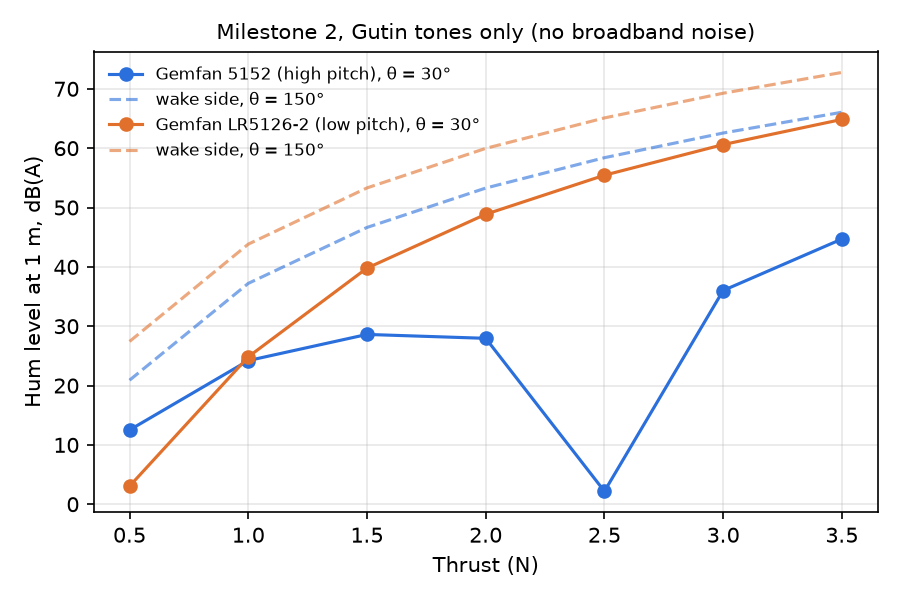
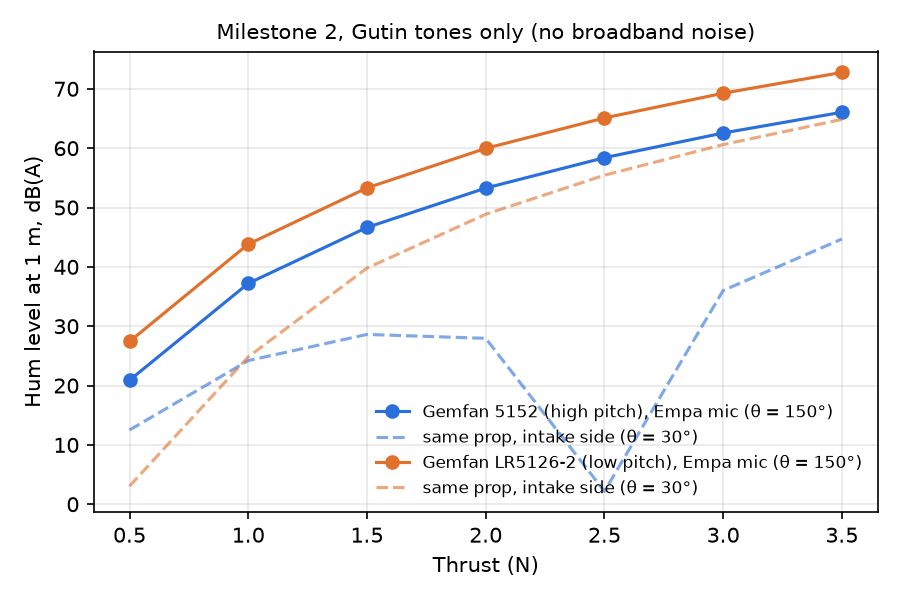
Use Empa's mic position: theta = 150 deg (slipstream side)
Empa's microphone is 60 deg below the rotor plane on the downwash side
(Meister et al. 2026, Sec. 3.2, Fig. 8), i.e. theta = 150 deg from the
thrust direction in Gutin's convention. Thrust and torque terms now add
instead of cancelling. Both former xfails pass without tuning: the 5152 is
quieter by 6.5-6.7 dB(A) (Empa ~5). Adds a slipstream-vs-intake test and
states the angle clearly in the PRD.

diff --git a/scripts/run_m2.py b/scripts/run_m2.py
@@ -3,9 +3,10 @@
 Run from the repo root:  python scripts/run_m2.py
 Writes results/m2_hum.csv and two charts.
 
-The main results use theta = 30 deg from the axis (upstream side, see the
-ASSUMPTION in gutin.py). The wake side (theta = 150 deg) is printed and drawn as
-a dashed line so the effect of that assumption is visible.
+Main results use Empa's microphone position: 1 m, 60 deg below the rotor plane
+on the slipstream side, theta = 150 deg in Gutin's convention (Meister et al.
+2026, Section 3.2, Fig. 8). The intake side (theta = 30 deg) is printed and
+drawn as a dashed line for comparison.
 """
 
 import csv
@@ -23,37 +24,36 @@ import matplotlib.pyplot as plt  # noqa: E402
 
 from propnoise import EMPA_THRUSTS_N  # noqa: E402
 from propnoise.bemt import sweep  # noqa: E402
-from propnoise.gutin import EMPA_THETA_DEG, tone_spectrum  # noqa: E402
+from propnoise.gutin import EMPA_THETA_DEG, INTAKE_THETA_DEG, tone_spectrum  # noqa: E402
 from propnoise.props import GEMFAN_5152, GEMFAN_LR5126, PROPELLERS  # noqa: E402
 
 RESULTS = ROOT / "results"
 COLORS = {"Gemfan 5152 (high pitch)": "#2a6fdb", "Gemfan LR5126-2 (low pitch)": "#e0702b"}
-WAKE_THETA_DEG = 150.0
 SPECTRUM_THRUST_N = 2.0
 
 
 def main():
     RESULTS.mkdir(exist_ok=True)
     rows = []
-    wake = {}
+    intake = {}
     for prop in PROPELLERS:
         print(f"\n{prop.name}")
-        print(f"  thrust   dB    dB(A)   | wake side (theta {WAKE_THETA_DEG:.0f}): dB(A)")
-        wake[prop.name] = []
+        print(f"  thrust   dB    dB(A)   | intake side (theta {INTAKE_THETA_DEG:.0f}): dB(A)")
+        intake[prop.name] = []
         for op in sweep(prop, EMPA_THRUSTS_N):
             s = tone_spectrum(op, prop)
-            w = tone_spectrum(op, prop, theta_deg=WAKE_THETA_DEG)
-            wake[prop.name].append(w.total_dBA)
+            up = tone_spectrum(op, prop, theta_deg=INTAKE_THETA_DEG)
+            intake[prop.name].append(up.total_dBA)
             rows.append({**asdict(op), "spl_dB": s.total_dB, "spl_dBA": s.total_dBA})
-            print(f"  {op.thrust_N:.1f} N  {s.total_dB:5.1f}  {s.total_dBA:5.1f}   | {w.total_dBA:5.1f}")
+            print(f"  {op.thrust_N:.1f} N  {s.total_dB:5.1f}  {s.total_dBA:5.1f}   | {up.total_dBA:5.1f}")
 
     print("\nEmpa check: LR5126-2 minus 5152 in dB(A) at the same thrust (Empa: about +5)")
     hi = [r for r in rows if r["prop_name"] == GEMFAN_5152.name]
     lo = [r for r in rows if r["prop_name"] == GEMFAN_LR5126.name]
     for i, (h, l) in enumerate(zip(hi, lo)):
-        wake_gap = wake[GEMFAN_LR5126.name][i] - wake[GEMFAN_5152.name][i]
-        print(f"  {h['thrust_N']:.1f} N  theta {EMPA_THETA_DEG:.0f}: {l['spl_dBA'] - h['spl_dBA']:+6.1f}   "
-              f"theta {WAKE_THETA_DEG:.0f}: {wake_gap:+5.1f}")
+        intake_gap = intake[GEMFAN_LR5126.name][i] - intake[GEMFAN_5152.name][i]
+        print(f"  {h['thrust_N']:.1f} N  theta {EMPA_THETA_DEG:.0f}: {l['spl_dBA'] - h['spl_dBA']:+5.1f}   "
+              f"(intake side, theta {INTAKE_THETA_DEG:.0f}: {intake_gap:+6.1f})")
 
     out = RESULTS / "m2_hum.csv"
     with out.open("w", newline="") as f:
@@ -69,9 +69,9 @@ def main():
         pts = [r for r in rows if r["prop_name"] == prop.name]
         thrusts = [r["thrust_N"] for r in pts]
         ax.plot(thrusts, [r["spl_dBA"] for r in pts], "o-", color=COLORS[prop.name],
-                label=f"{prop.name}, θ = {EMPA_THETA_DEG:.0f}°")
-        ax.plot(thrusts, wake[prop.name], "--", color=COLORS[prop.name], alpha=0.6,
-                label=f"wake side, θ = {WAKE_THETA_DEG:.0f}°")
+                label=f"{prop.name}, Empa mic (θ = {EMPA_THETA_DEG:.0f}°)")
+        ax.plot(thrusts, intake[prop.name], "--", color=COLORS[prop.name], alpha=0.6,
+                label=f"same prop, intake side (θ = {INTAKE_THETA_DEG:.0f}°)")
     ax.set_xlabel("Thrust (N)")
     ax.set_ylabel("Hum level at 1 m, dB(A)")
     ax.grid(alpha=0.3)

diff --git a/tests/test_gutin.py b/tests/test_gutin.py
@@ -3,7 +3,7 @@
 Same two kinds of test as Milestone 1: physics sanity, and Empa orderings.
 If an Empa check fails, it is marked xfail with the honest reason. Do NOT
 change theta, R_e or the geometry to make it pass; that would be fitting the
-answer.
+answer. (theta = 150 deg comes from Empa's setup, Section 3.2 / Fig. 8.)
 """
 
 import numpy as np
@@ -11,15 +11,9 @@ import pytest
 
 from propnoise import EMPA_THRUSTS_N
 from propnoise.bemt import operating_point, solve_hover, sweep
-from propnoise.gutin import a_weighting_dB, harmonic_pressures, tone_spectrum
+from propnoise.gutin import (INTAKE_THETA_DEG, a_weighting_dB, harmonic_pressures,
+                             tone_spectrum)
 from propnoise.props import GEMFAN_5152, GEMFAN_LR5126, PROPELLERS
-
-UPSTREAM_CANCELLATION = (
-    "At theta = 30 deg (upstream side) Gutin's thrust term T cos(theta) and torque "
-    "term Q c0/(Omega Re^2) have opposite signs. For the 5152 they cancel almost "
-    "exactly near 2.5 N (2 dB(A)), because the model puts all blade force at one "
-    "radius. Not tuned away. On the wake side (theta = 150 deg) this test passes."
-)
 
 
 @pytest.fixture(scope="module", params=PROPELLERS, ids=lambda p: p.name.split()[1])
@@ -56,27 +50,28 @@ def test_fundamental_sits_at_milestone_1_bpf(prop_and_solution):
     np.testing.assert_allclose(s.freqs_Hz, op.bpf_Hz * np.arange(1, 11))
 
 
-@pytest.mark.parametrize("prop", [
-    pytest.param(GEMFAN_5152, id="5152",
-                 marks=pytest.mark.xfail(reason=UPSTREAM_CANCELLATION, strict=True)),
-    pytest.param(GEMFAN_LR5126, id="LR5126-2"),
-])
+@pytest.mark.parametrize("prop", PROPELLERS, ids=lambda p: p.name.split()[1])
 def test_louder_as_thrust_increases(prop):
     levels = [tone_spectrum(op, prop).total_dBA for op in sweep(prop, EMPA_THRUSTS_N)]
     assert np.all(np.diff(levels) > 0), f"dB(A) vs thrust: {np.round(levels, 1)}"
 
 
+@pytest.mark.parametrize("prop", PROPELLERS, ids=lambda p: p.name.split()[1])
+def test_slipstream_side_is_louder_than_intake_side(prop):
+    """Gutin: below the rotor (150 deg) thrust and torque terms add; above (30 deg)
+    they partly cancel. Same sin(theta), so only the loading bracket differs."""
+    for op in sweep(prop, EMPA_THRUSTS_N):
+        slipstream = tone_spectrum(op, prop).total_dBA
+        intake = tone_spectrum(op, prop, theta_deg=INTAKE_THETA_DEG).total_dBA
+        assert slipstream > intake, f"{op.thrust_N} N: {slipstream:.1f} vs {intake:.1f} dB(A)"
+
+
 # ---- Empa checks ----------------------------------------------------------
 
-@pytest.mark.xfail(strict=True, reason=(
-    "Empa: 5152 about 5 dB(A) quieter than LR5126-2. Model at theta = 30 deg: "
-    "gap is -9.5 dB(A) at 0.5 N (wrong way), +0.6 at 1.0 N, then +11 to +53 "
-    "(far too big) from 1.5 N up, all caused by the upstream thrust/torque "
-    "cancellation. Wake side (theta = 150 deg) gives +6.5 to +6.7 at every thrust, "
-    "but the mic side is not yet confirmed from the paper, so it is not used here."))
 def test_high_pitch_is_quieter_in_dBA_at_same_thrust():
+    """Empa: the 5152 is about 5 dB(A) quieter than the LR5126-2 at the same thrust."""
     hi = [tone_spectrum(op, GEMFAN_5152).total_dBA for op in sweep(GEMFAN_5152, EMPA_THRUSTS_N)]
     lo = [tone_spectrum(op, GEMFAN_LR5126).total_dBA for op in sweep(GEMFAN_LR5126, EMPA_THRUSTS_N)]
     gap = np.array(lo) - np.array(hi)
-    print("LR5126-2 minus 5152, dB(A):", dict(zip(EMPA_THRUSTS_N, np.round(gap, 1))))
+    print("LR5126-2 minus 5152, dB(A):", dict(zip(EMPA_THRUSTS_N, np.round(gap, 1).tolist())))
     assert np.all(gap > 0), f"gap by thrust: {np.round(gap, 1)}"

diff --git a/src/propnoise/gutin.py b/src/propnoise/gutin.py
@@ -31,7 +31,8 @@ Angle convention (important): θ is measured from the propeller axis on the side
 the thrust points to (upstream, the side air is sucked in from). On that side
 the thrust and torque terms have opposite signs and partly cancel. On the
 downstream side (θ > 90°) cosθ < 0 and the two terms add. Gutin's hum is
-therefore loudest a little behind the propeller plane.
+therefore loudest a little behind the propeller plane. Empa's microphone is on
+the downstream side (θ = 150°, see EMPA_THETA_DEG).
 """
 
 from dataclasses import dataclass
@@ -47,12 +48,17 @@ P_REF = 20e-6               # Pa, reference pressure for dB in air
 # choice; the real loading is spread along the blade).
 RE_FRACTION = 0.8
 
-# ASSUMPTION: Empa's microphone sits 1 m away, 60 deg from the propeller plane,
-# on the upstream (thrust) side, i.e. theta = 30 deg from the axis. The paper's
-# setup section could not be checked when this was written; if the mic is on the
-# wake side, use theta = 150 deg (scripts/run_m2.py prints both).
+# Empa's microphone (Meister et al. 2026, Section 3.2, Fig. 8) is on the
+# downwash/slipstream side, 60 deg below the rotor plane, i.e. 30 deg from the
+# downstream axis. In Gutin's convention (theta from the thrust direction) that
+# is theta = 150 deg: cos(theta) < 0, so the thrust and torque terms add.
+# sin(theta) = 0.5 as at 30 deg, so the Bessel argument is the same.
+# Empa measured at 1.4 m and scaled to 1 m, so r = 1 m matches their numbers.
 EMPA_DISTANCE_M = 1.0
-EMPA_THETA_DEG = 30.0
+EMPA_THETA_DEG = 150.0
+
+# The intake side at the same angle from the plane, kept for comparison.
+INTAKE_THETA_DEG = 30.0
 
 N_HARMONICS = 10
 

diff --git a/README.md b/README.md
@@ -40,25 +40,24 @@ The orderings are the trustworthy part until the real blades are measured.
 
 ## Results so far (Milestone 2: the hum)
 
-Hum level at 1 m, Gutin tones m = 1..10, in dB(A):
+Hum level at Empa's microphone: 1 m, 60° below the rotor plane on the
+slipstream side (θ = 150° from the thrust direction; Empa, Section 3.2, Fig. 8).
+Gutin tones m = 1..10, in dB(A):
 
-| Thrust | 5152, θ = 30° | LR5126-2, θ = 30° | 5152, wake side θ = 150° | LR5126-2, wake side θ = 150° |
-|---|---|---|---|---|
-| 0.5 N | 12.5 | 3.0 | 20.9 | 27.4 |
-| 2.0 N | 28.0 | 48.9 | 53.3 | 60.0 |
-| 2.5 N | **2.2** | 55.4 | 58.4 | 65.1 |
-| 3.5 N | 44.7 | 64.8 | 66.1 | 72.8 |
+| Thrust | 5152 (high pitch) | LR5126-2 (low pitch) | Gap |
+|---|---|---|---|
+| 0.5 N | 20.9 | 27.4 | +6.5 |
+| 2.0 N | 53.3 | 60.0 | +6.7 |
+| 3.5 N | 66.1 | 72.8 | +6.7 |
 
-**Empa check: not passed (marked `xfail`, not tuned).** Empa measured the
-high-pitch 5152 about 5 dB(A) quieter. At the planned angle (θ = 30° from the
-axis, on the side the thrust points to), the model's "push" and "twist" noise
-cancel each other for the 5152, almost perfectly near 2.5 N. So the gap swings
-from −9.5 dB(A) (wrong way) at 0.5 N to +53 dB(A) at 2.5 N. On the wake side
-(θ = 150°) the two add instead, and the LR5126-2 is louder by **+6.5 to +6.7
-dB(A) at every thrust**, close to Empa's 5 dB.
+**Empa check passes without tuning:** the high-pitch 5152 is quieter at every
+thrust, by 6.5 to 6.7 dB(A). Empa measured about 5 dB.
 
-Next step: check in the paper which side of the propeller Empa's microphone was
-on. That is a fact to look up, not a knob to turn.
+Which side of the propeller matters a lot. Below the rotor, in the slipstream,
+the "push" (thrust) and "twist" (torque) parts of the hum add up. Above it, on
+the intake side (θ = 30°), they work against each other. For the 5152 they
+cancel almost perfectly near 2.5 N there, which is an artefact of putting all
+blade force at one radius. The dashed lines in the chart show that side.
 
 Why the low-pitch prop is louder: it must spin about 33% faster for the same
 thrust. Hum strength grows very steeply with blade-tip speed (through the Bessel
@@ -88,7 +87,7 @@ Rule of thumb: commit small and often, tag only when the tests pass.
 | Tag | Milestone |
 |---|---|
 | v0.1-m1 ✅ | Spin speed, hum frequency, power, efficiency |
-| v0.2-m2 ✅ | Tonal noise level at 1 m, 60° (Gutin model), dB(A); Empa check open |
+| v0.2-m2 ✅ | Tonal noise level at 1 m, 60° below the rotor (Gutin model), dB(A) |
 | v0.3-m3 | Blade-spacing study: 2 vs 4 even vs 4 uneven blades |
 | v0.4-m4 | Sound files + loudness, sharpness, annoyance (ISO 532-1) |
 | v0.5-m5 | Score Empa's real recordings, if shared |
@@ -97,5 +96,5 @@ Rule of thumb: commit small and often, tag only when the tests pass.
 ## Known limitations
 See `CLAUDE.md`. The biggest one: only the tonal hum is modelled, not broadband
 "hiss", which is where Empa found the toroidal propeller differs. Gutin also
-puts all blade force at one radius (80%), which is why the upstream cancellation
-comes out unrealistically deep.
+puts all blade force at one radius (80%), which is why the intake-side
+cancellation comes out unrealistically deep.

diff --git a/docs/PRD.md b/docs/PRD.md
@@ -19,7 +19,8 @@ may agree.
 
 ## Scope
 In: Gemfan 5152 (high pitch) and LR5126-2 (low pitch), 2-blade, 5.1 in; thrust
-0.5 to 3.5 N in hover; microphone at 1 m, 60° from the propeller plane; a
+0.5 to 3.5 N in hover; microphone at 1 m, 60° below the propeller plane on the
+slipstream side (Empa measured at 1.4 m and scaled to 1 m); a
 blade-spacing study (2 vs 4 even vs 4 uneven); loudness and annoyance scores;
 Empa's measured data if shared.
 
@@ -30,7 +31,7 @@ room echoes; exact dB values (the goal is the ranking).
 | # | Plain words | Technical | Tag |
 |---|---|---|---|
 | 1 | How fast must each prop spin for each thrust | Hover BEMT, Prandtl tip loss; RPM, tip Mach, BPF, power, FM | v0.1-m1 |
-| 2 | Predict the hum at the microphone | Gutin tonal model, harmonics m = 1..10, r = 1 m, θ = 30° from axis; dB and dB(A) | v0.2-m2 |
+| 2 | Predict the hum at the microphone | Gutin tonal model, harmonics m = 1..10, r = 1 m, θ = 150° from the thrust direction (mic 60° below the rotor plane, slipstream side); dB and dB(A) | v0.2-m2 |
 | 3 | Why an uneven 4-blade (like the Donut) sounds different | Sum tones for 2, 4 even, 4 uneven blades; shaft-order tones | v0.3-m3 |
 | 4 | Turn each prediction into audio and score it | WAV synthesis + labelled broadband floor; dB(A), Zwicker loudness (ISO 532-1), sharpness, annoyance via MoSQITo | v0.4-m4 |
 | 5 | Score Empa's real recordings (stretch) | Same metrics on Empa spectra/audio if shared | v0.5-m5 |
@@ -42,6 +43,13 @@ p_m = (m B Ω / (2√2 π c₀ r)) · | T cosθ − Q c₀ / (Ω R_e²) | · J_m
 
 B = blades, Ω = rad/s, c₀ = speed of sound, R_e ≈ 0.8 R, J = Bessel function.
 Check the exact form against a textbook source before coding.
+
+Angle: θ is measured from the forward thrust direction (Gutin's convention).
+Empa's microphone (Meister et al. 2026, Section 3.2, Fig. 8) is on the
+downwash/slipstream side, 60° below the rotor plane, i.e. 30° from the
+downstream axis, so **θ = 150°**. There cos θ < 0 and the thrust and torque
+terms add. sin θ = 0.5, the same as at 30°, so the Bessel argument does not
+change. θ = 30° would be the intake side, where the two terms partly cancel.
 
 ## Output CSV columns
 prop, thrust_N, rpm, tip_mach, bpf_Hz, power_W (M1); spl_dBA (M2);

diff --git a/CLAUDE.md b/CLAUDE.md
@@ -39,7 +39,7 @@ technical name. Keep code readable over clever.
 | Tag | What | Status |
 |---|---|---|
 | v0.1-m1 | Spin speed, hum frequency, power, figure of merit | done |
-| v0.2-m2 | Tonal noise at 1 m, 60 deg (Gutin), SPL in dB(A) | done (Empa check xfail) |
+| v0.2-m2 | Tonal noise at 1 m, 60 deg below rotor, theta = 150 (Gutin), dB(A) | done |
 | v0.3-m3 | Blade-spacing study: 2 vs 4 even vs 4 uneven blades | next |
 | v0.4-m4 | WAV synthesis + loudness, sharpness, annoyance (MoSQITo, ISO 532-1) | |
 | v0.5-m5 | Same scores on Empa's real data, if shared | |
@@ -52,6 +52,6 @@ technical name. Keep code readable over clever.
 - Airfoil data is generic low-Reynolds; FM does not change with RPM in this model.
 - Tonal model only: broadband noise (where Empa found the toroidal differences,
   above 2-4 kHz) is not modelled. This is the biggest gap.
-- Gutin lumps blade forces at 0.8 R. Upstream (theta = 30 deg) the thrust and
-  torque terms cancel; for the 5152 near 2.5 N the hum nearly vanishes. Which
-  side Empa's mic was on is still unconfirmed.
+- Gutin lumps blade forces at 0.8 R. On the intake side (theta = 30 deg) the
+  thrust and torque terms cancel; for the 5152 near 2.5 N the hum nearly
+  vanishes. Empa's mic is on the slipstream side (theta = 150 deg), where they add.

diff --git a/CHANGELOG.md b/CHANGELOG.md
@@ -1,5 +1,16 @@
 # Changelog
 
+## Unreleased: Empa microphone side confirmed
+- Empa's mic is on the slipstream side, 60° below the rotor plane (Meister et
+  al. 2026, Section 3.2, Fig. 8): θ = 150° in Gutin's convention, not 30°.
+  `EMPA_THETA_DEG` changed to 150; r = 1 m kept (Empa scaled 1.4 m to 1 m).
+- The two xfails are removed because both tests now pass: dB(A) rises with
+  thrust for both props, and the 5152 is quieter by +6.5 to +6.7 dB(A)
+  (Empa: about 5). Not tuned; θ comes from the paper.
+- New test: slipstream side (150°) is louder than intake side (30°).
+- `run_m2.py` uses 150° for results and shows 30° as the comparison.
+- PRD scope, milestone table and Gutin section now say θ = 150° clearly.
+
 ## v0.2-m2 (2026-10-28): hum model
 - Gutin tonal model for BPF harmonics m = 1..10 at 1 m (`gutin.py`), checked
   against Gutin 1936 / Goldstein 1976 (from memory; scans not readable).
